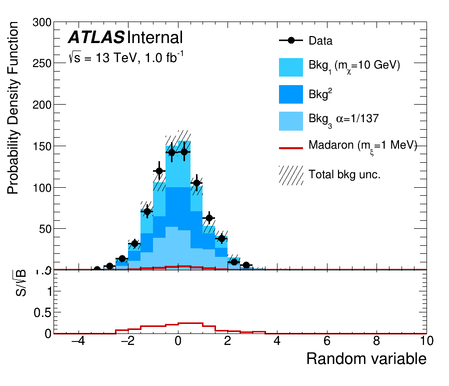
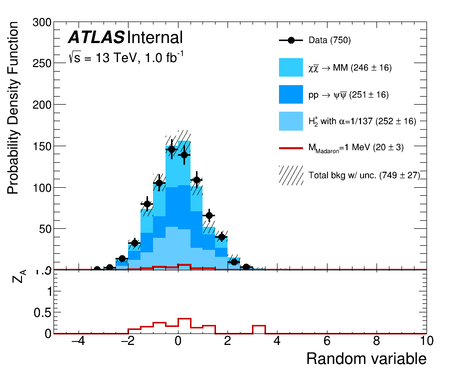
Adding two options: ncols for the legend and have yields in the legend

diff --git a/hepplotting/plot_maker.py b/hepplotting/plot_maker.py
@@ -113,13 +113,17 @@ def make_nice_canvas(dictBkg, hTot, hData, plot_name, **kwargs):
     '''
     Produce a canvas with stacked histogram for background, data and ratio plots.
 
-    - Required arguments:
+
+    Required arguments
+    ==================
     . dictBkg [dictionnary {bkgName:[TH1,color,legName]}] containing all background histograms
     . hTot [TH1] is the histogram of the total data with its uncertainty
     . hData [TH1] is the histogram of data
     . plot_name [string] is the name of the final plot (plot_name.pdf)
 
-    - Key-word arguments:
+
+    Key-word arguments
+    ==================
     . plotdir [string] is a directory where the plots will be stored (default: 'plots')
     . lumi [float] is the integrated luminosity (default: 1/fb)
     . xtitle [string] is x-axis title
@@ -136,20 +140,27 @@ def make_nice_canvas(dictBkg, hTot, hData, plot_name, **kwargs):
     . ymax [float] higher y-axis value
     . r_ymin [float] lower y-axis value on the ratio plot
     . r_ymax [float] higher y-axis value on the ratio plot
-    . canvas [TCanvas] on which the plot will be made
-    . can_ratio [float] specify the canvas size such as width=900/ratio and height=800
-    . can_scale [float] scale the whole canvas without changin its ratio
+
     . leg_pos [list of float] specify the legend position via bottom left (x1,y1)
      and top right (x2,y2) using [x1,y1,x2,y2]
+    . unc_leg [string] to tune the name of uncertainty (eg. stat-only)
+    . leg_ncols [int] number of columns used for the legend
+    . leg_put_nevts [bool] to print events yields in the legend
+    . leg_textsize [float] size of the legend text (~0.030 to ~0.045)
+
     . m_size [float] is the marker size for data
-    . plot_labels [list of string] given the labels printed below ATLAS and Lumi
-    . atlas_label [string] is \'Internal\' by default but can be \'ATLAS\', \'Preliminary\', \'Simulation\'
     . error_fill [int] is the filling style for the uncertainty band
     . error_alpha [float] is the transparency for the uncertainty band (in [0,1])
     . histo_border [int] is the border size of background histograms in the stacks
+
+    . plot_labels [list of string] given the labels printed below ATLAS and Lumi
+    . atlas_label [string] is \'Internal\' by default but can be \'ATLAS\', \'Preliminary\', \'Simulation\'
+
+    . canvas [TCanvas] on which the plot will be made
+    . can_ratio [float] specify the canvas size such as width=900/ratio and height=800
+    . can_scale [float] scale the whole canvas without changin its ratio
     . plot_ratio [boolean] to plot or not the ratio panel
     . ratio_type [string] to choose what to plot in the bottom plot (\'ratio\' [default], \'SoverB\', \'signif\')
-    . unc_leg [string] to tune the name of uncertainty (eg. stat-only)
     '''
 
     plotdir, dictSig, sig_line_style, xtitle_arg, ytitle_arg = 'plots', None, 1, None, None
@@ -157,7 +168,8 @@ def make_nice_canvas(dictBkg, hTot, hData, plot_name, **kwargs):
     is_logy, bin_label, xlabel_size, xlabel_offset, xticksInt = None, None, None, None, False
     r_ymin, r_ymax, can_ratio, can_scale, m_size = None, None, None, 1.0, None
     canvas, error_fill, error_alpha, histo_border, plot_labels = None, 3356, 0.3, 0, None
-    plot_ratio, atlas_label, unc_leg, ratio_type = True, 'Internal', None, 'ratio'
+    plot_ratio, atlas_label, unc_leg, ratio_type = True, 'Internal', 'Total bkg w/ unc.', 'ratio'
+    leg_with_nevts, leg_ncols, leg_textsize = True, 1, None
     if 'lumi' in kwargs:
         lumi = kwargs['lumi']
     if 'dictSig' in kwargs:
@@ -200,6 +212,14 @@ def make_nice_canvas(dictBkg, hTot, hData, plot_name, **kwargs):
         can_scale = kwargs['can_scale']
     if 'leg_pos' in kwargs:
         leg_pos = kwargs['leg_pos']
+    if 'leg_ncols' in kwargs:
+        leg_ncols = kwargs['leg_ncols']
+    if 'leg_with_nevts' in kwargs:
+        leg_with_nevts = kwargs['leg_with_nevts']
+    if 'leg_textsize' in kwargs:
+        leg_textsize = kwargs['leg_textsize']
+    if 'unc_leg' in kwargs:
+        unc_leg = kwargs['unc_leg']
     if 'm_size' in kwargs:
         m_size = kwargs['m_size']
     if 'plot_labels' in kwargs:
@@ -214,8 +234,6 @@ def make_nice_canvas(dictBkg, hTot, hData, plot_name, **kwargs):
         histo_border = kwargs['histo_border']
     if 'plot_ratio' in kwargs:
         plot_ratio = kwargs['plot_ratio']
-    if 'unc_leg' in kwargs:
-        unc_leg = kwargs['unc_leg']
     if 'ratio_type' in kwargs:
         ratio_type = kwargs['ratio_type']
 
@@ -338,28 +356,47 @@ def make_nice_canvas(dictBkg, hTot, hData, plot_name, **kwargs):
     padhigh.cd()
     if plot_ratio:
         x1, y1, x2, y2, textsize = 0.61, 0.3, 0.92, 0.90, 0.045
+        if leg_ncols==2:
+            x1, y1, x2, y2 = 0.43, 0.55, 0.94, 0.90
     else:
         x1, y1, x2, y2, textsize = 0.61, 0.5, 0.98, 0.93, 0.038
+        if leg_ncols==2:
+            x1, y1, x2, y2, textsize = 0.48, 0.65, 0.94, 0.93, 0.034
     if leg_pos:
         x1, y1, x2, y2 = leg_pos
+    if leg_with_nevts:
+        textsize = 0.03
+    if leg_textsize:
+        textsize = leg_textsize
+
+    def make_leg_name(histo, name):
+        if leg_with_nevts:
+            Etot = ROOT.Double(0.0)
+            Ntot = histo.IntegralAndError(-999, 999, Etot)
+            if name in ('Data', 'data', 'DATA'):
+                return '{} ({:.0f})'.format(name, Ntot)
+            else:
+                return '{} ({:.0f} #pm {:.0f})'.format(name, Ntot, Etot)
+        else:
+            return name
+
     leg = ROOT.TLegend(x1, y1, x2, y2)
     ROOT.SetOwnership(leg, False)
+    leg.SetNColumns(leg_ncols)
     leg.SetTextFont(42)
     leg.SetFillStyle(0)
     leg.SetBorderSize(0)
     leg.SetLineColor(0)
     leg.SetTextSize(textsize)
-    leg.AddEntry(hData, 'Data', 'lp')
+    leg.AddEntry(hData, make_leg_name(hData, 'Data') , 'lp')
     for b in bkg_name:
-        leg.AddEntry(hBkg[b], bkg_legname[b], 'f')
+        leg.AddEntry(hBkg[b], make_leg_name(hBkg[b], bkg_legname[b]), 'f')
     if dictSig:
         for n, sig in dictSig.items():
+            leg.AddEntry(h, make_leg_name(h, legName), 'l')
             h, color, norm, legName = sig
-            leg.AddEntry(h, legName, 'l')
-    if unc_leg:
-        leg.AddEntry(hTot, unc_leg, 'f')
-    else:
-        leg.AddEntry(hTot, 'Total bkg unc.', 'f')
+    leg.AddEntry(hTot, make_leg_name(hTot, unc_leg), 'f')
+
 
     hData.SetMarkerStyle(20)
     if plot_ratio:

diff --git a/example/example.py b/example/example.py
@@ -6,9 +6,9 @@ counter = -1
 bkg_name = ['bkg1','bkg2','bkg3']
 
 bkg_legname = {
-    'bkg1': 'Bkg_{1} (m_{#chi}=10 GeV)',
-    'bkg2': 'Bkg^{2}'                  ,
-    'bkg3': 'Bkg_{3} #alpha=1/137'     ,
+    'bkg1': '#chi#bar{#chi} #rightarrow MM',
+    'bkg2': 'pp #rightarrow #psi#bar{#psi}'  ,
+    'bkg3': 'H^{+}_{2} with #alpha=1/137'   ,
 }
 
 bkg_color = {
@@ -19,22 +19,25 @@ bkg_color = {
 
 
 # ======= CREATE HISTOGRAMS TO RUN THE EXAMPLE ======
-def get_random_histo(name):
+def get_random_histo(name, N):
     global counter
     h=ROOT.TH1F(name,name,30,-5,10)
-    h.FillRandom('gaus',250)
+    h.FillRandom('gaus', N)
     h.SetName(h.GetName()+'_tmp{}'.format(counter))
     counter+=1
     return h
 
-dictBkg = {b:[get_random_histo(b),bkg_color[b],bkg_legname[b]] for b in bkg_name}
-dictSig = {'s': [get_random_histo('s'), ROOT.kRed+1, 20, 'Madaron (m_{#xi}=1 MeV)']}
-hData   = plt.sum_histograms([get_random_histo('Data') for i in range(0,3)])
+n_evts = [246, 251, 252]
+
+dictBkg = {b: [get_random_histo(b, n), bkg_color[b], bkg_legname[b]] for b, n in zip(bkg_name, n_evts)}
+dictSig = {'s': [get_random_histo('s', 52), ROOT.kRed+1, 20, 'M_{Madaron}=1 MeV']}
+hData   = plt.sum_histograms([get_random_histo('Data', 250) for i in range(0,3)])
 hTot    = plt.sum_histograms( [v[0] for v in dictBkg.values()] )
 # ==================================================
 
 
 plt.make_nice_canvas(dictBkg,hTot,hData,plot_name='Example_plot', dictSig=dictSig,
                      ytitle='Probability Density Function',
-                     xtitle='Random variable',plot_ratio=True,
-                     ymax=300, ratio_type='SoverB')
+                     xtitle='Random variable', plot_ratio=True,
+                     ymax=300, ratio_type='signif',
+                     leg_ncols=1, leg_with_nevts=True, leg_textsize=0.036)

diff --git a/README.md b/README.md
@@ -36,7 +36,7 @@ where:
 A concrete example can be found in [this notebook](example/example.ipynb) or [this simple script](example/example.py)
 which produce each this plot:
 
-![Example of distribution](example/plots/Example_plot_Internal_reduced.png)
+![Example of distribution](example/plots/Example_plot_Internal.png)
 
 
 ### 2.3 Description of the options
@@ -74,7 +74,9 @@ which is often required during the approval process of a publication.
 
    + `leg_pos` *[list of float]* specify the legend position via bottom left (x1,y1) and top right (x2,y2) using `[x1,y1,x2,y2]`
    + `unc_leg` *[string]* to tune the name of uncertainty (eg. `stat-only` or `Stat #oplus Norm Syst.`)
-
+   + `leg_ncols` *[int]* number of columns used for the legend
+   + `leg_put_nevts` *[bool]* to print events yields in the legend
+   + `leg_textsize` *[float]* size of the legend text (~0.030 to ~0.045)
 
 **Canvas properties**
 
